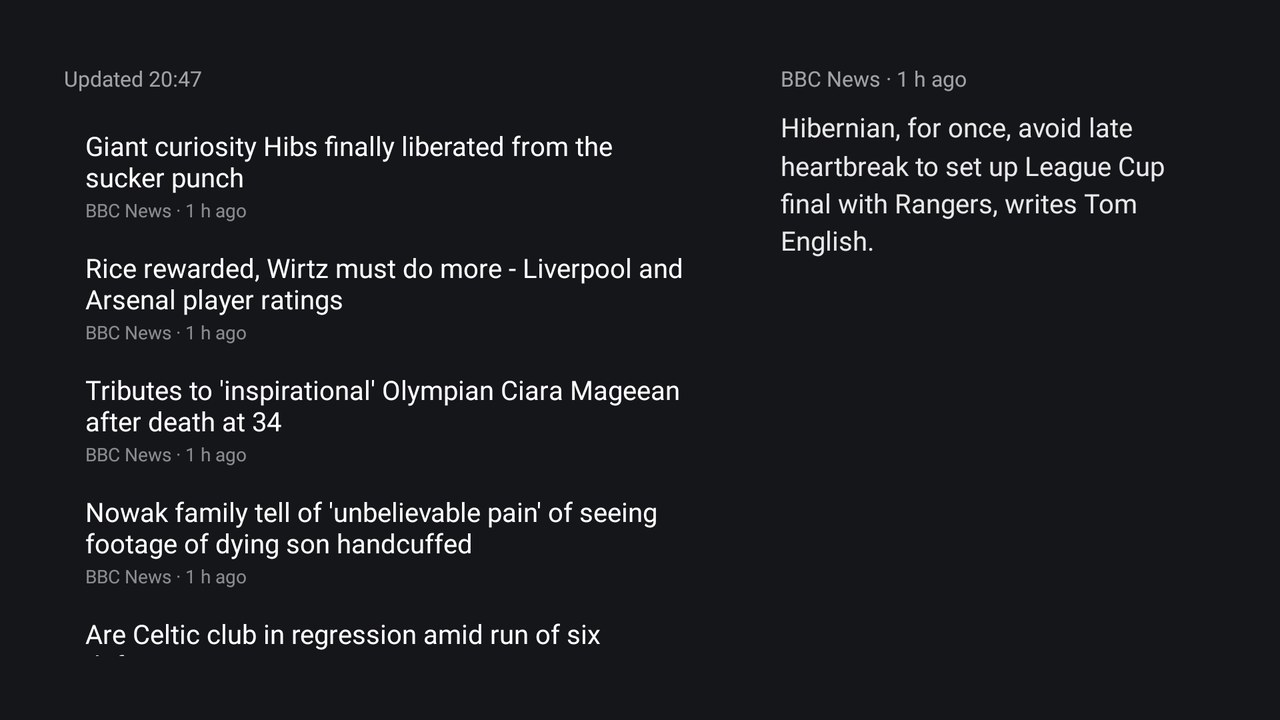
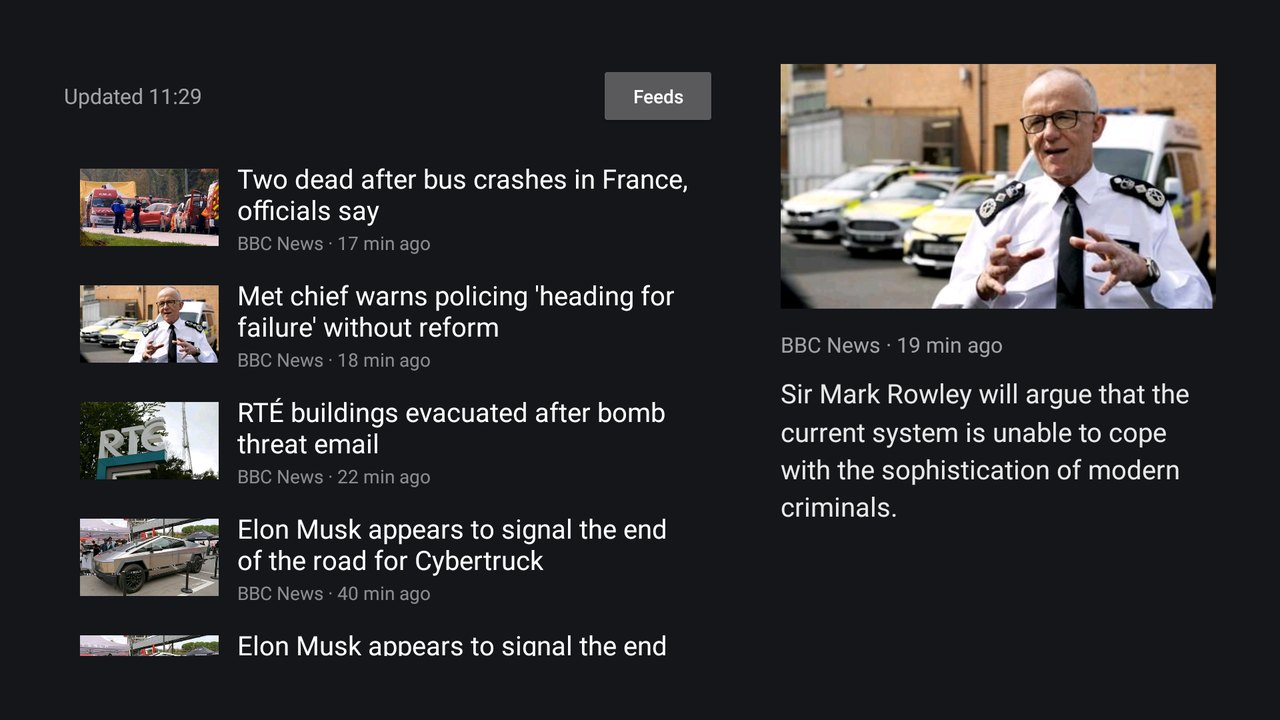
addons/news: a story two feeds both carry is kept once; real screenshot of the list with pictures (AFTKRT)
Feed.newest drops a repeat by link or title (the BBC front page and technology feeds shared one). Installed on a Fire TV
Stick 4K Max (Fire OS 8.1.8.5) with launcher 1618eeda: the scroll fade, news_seconds, thumbnails, the big picture and the
Feeds dialog were checked on screen; typing a feed address with the TV keyboard was not.

diff --git a/addons/news/app/src/main/java/io/github/cleanyourtv/news/Feed.java b/addons/news/app/src/main/java/io/github/cleanyourtv/news/Feed.java
@@ -196,8 +196,13 @@ final class Feed {
         return newest(all, max);
     }
 
+    /** Newest first, capped; a story two feeds both carry (same link, or same title) is kept once. */
     static List<Item> newest(List<Item> all, int max) {
-        List<Item> out = new ArrayList<>(all);
+        List<Item> out = new ArrayList<>();
+        java.util.Set<String> seen = new java.util.HashSet<>();
+        for (Item i : all) {
+            if (seen.add(i.link.isEmpty() ? "t:" + i.title : i.link) && seen.add("t:" + i.title)) out.add(i);
+        }
         Collections.sort(out, (a, b) -> Long.compare(b.published, a.published));
         return out.size() > max ? new ArrayList<>(out.subList(0, max)) : out;
     }

diff --git a/addons/news/app/src/test/java/io/github/cleanyourtv/news/FeedTest.java b/addons/news/app/src/test/java/io/github/cleanyourtv/news/FeedTest.java
@@ -98,4 +98,14 @@ public class FeedTest {
         assertEquals("http://b.example/feed", f.get(1));
         assertTrue(Feed.parseFeeds("").isEmpty());
     }
+
+    @Test
+    public void newestKeepsAStoryTwoFeedsShareOnce() {
+        Feed.Item a = new Feed.Item("BBC News", "Same story", "", "https://x/1", "", 3);
+        Feed.Item b = new Feed.Item("BBC News", "Same story", "", "https://x/1", "", 3);
+        Feed.Item c = new Feed.Item("Sky", "Other", "", "https://x/2", "", 2);
+        List<Feed.Item> out = Feed.newest(java.util.Arrays.asList(c, a, b), 10);
+        assertEquals(2, out.size());
+        assertEquals("Same story", out.get(0).title);
+    }
 }
